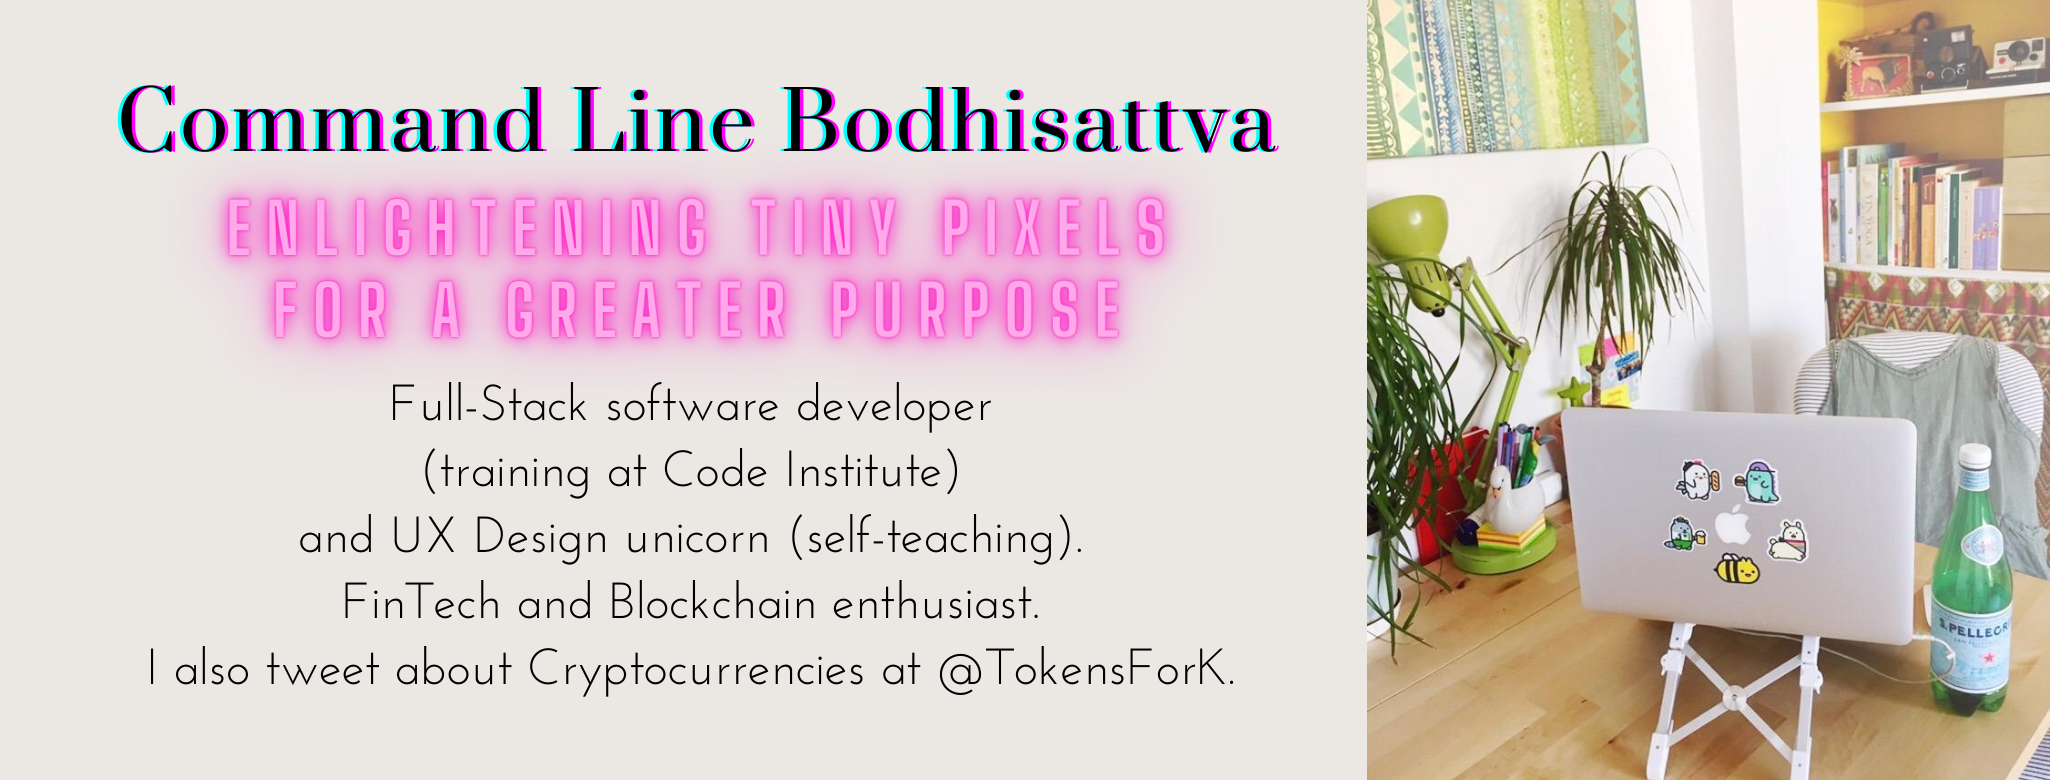
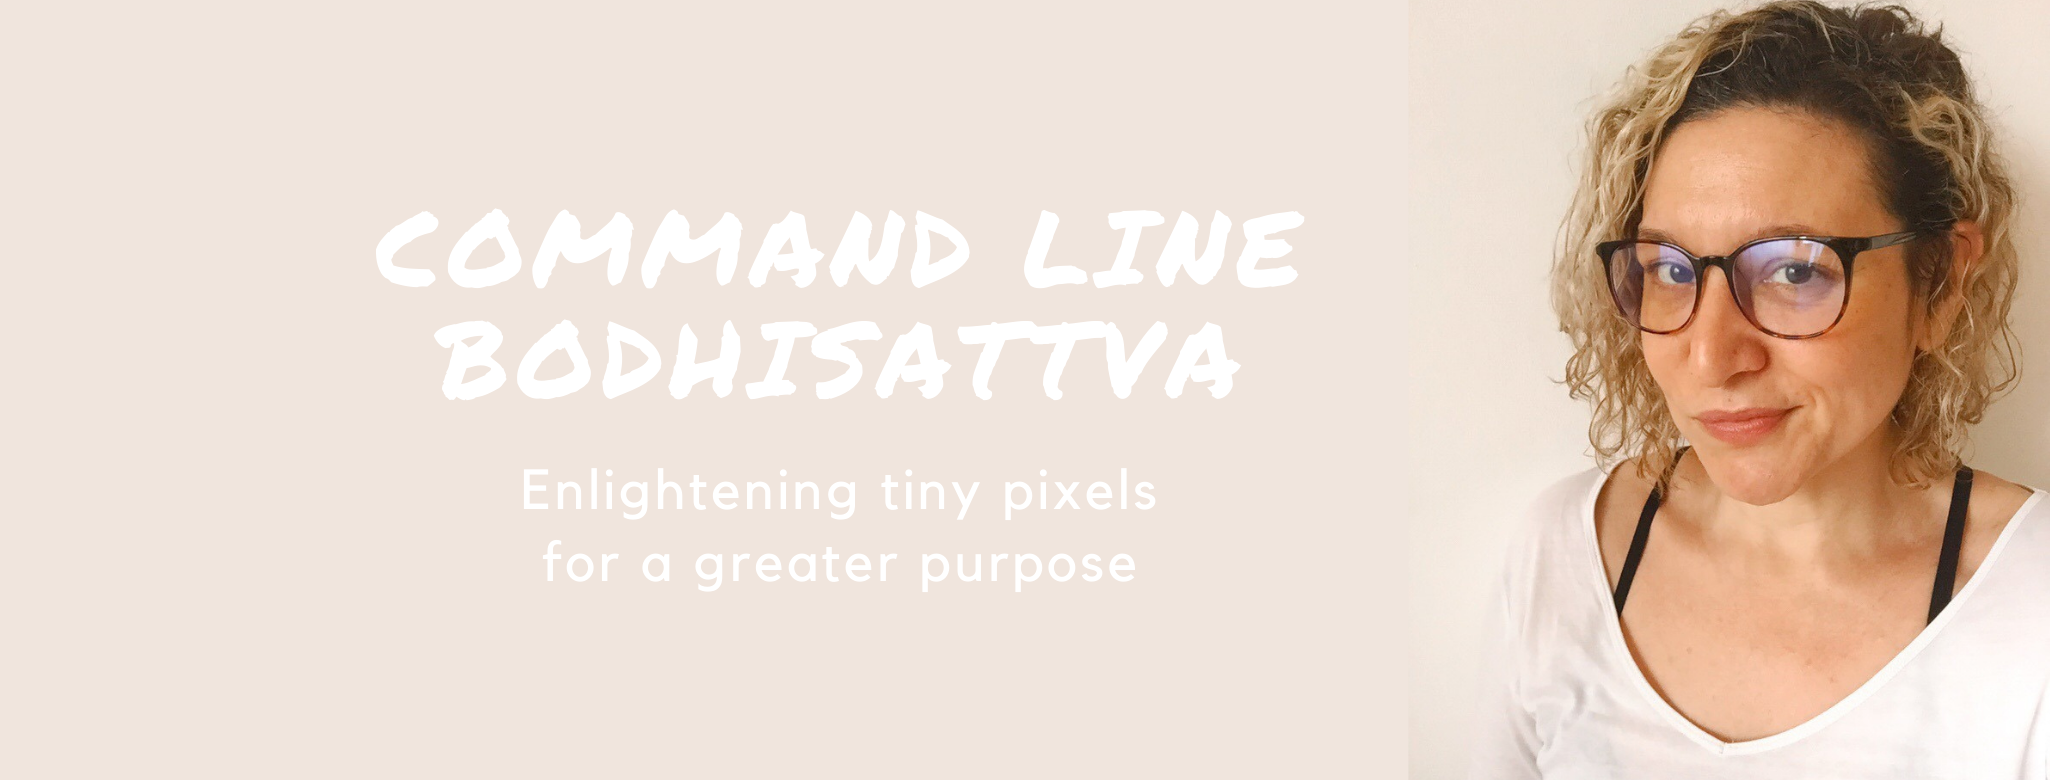
Update for january 2021

diff --git a/README.md b/README.md
@@ -1,14 +1,14 @@
 ## I am Kes Cardoso &nbsp; &nbsp; <a href="https://github.com/kescardoso" alt="GitHub" target="_blank"><img src="https://github.com/kescardoso/kescardoso/blob/master/icons/github-16.png"></a> &nbsp; <a href="mailto:kescardoso@gmail.com" alt="Email" target="_blank"><img src="https://github.com/kescardoso/kescardoso/blob/master/icons/email-16.png"></a> &nbsp; <a href="https://www.linkedin.com/in/kescardoso/" alt="Linkedin" target="_blank"><img src="https://github.com/kescardoso/kescardoso/blob/master/icons/linkedin-16.png"></a> &nbsp; <a href="https://twitter.com/kescardoso" alt="Twitter" target="_blank"><img src="https://github.com/kescardoso/kescardoso/blob/master/icons/twitter-16.png"></a> &nbsp; <a href="https://instagram.com/kescardoso" alt="Instagram" target="_blank"><img src="https://github.com/kescardoso/kescardoso/blob/master/icons/instagram-16.png"></a> &nbsp; <a href="https://pinterest.com/kescardoso" alt="Pinterest" target="_blank"><img src="https://github.com/kescardoso/kescardoso/blob/master/icons/pinterest-16.png"></a>
 
-<img src="https://github.com/kescardoso/kescardoso/blob/master/images/header.png" alt="Kesia Cardoso - Command Line Bottisatva: enlightening tiny pixels for a greater purpose - Full-Stack software develope (training at Code Institute) and UX Design unicorn (self-teaching). FinTech and Blockchain enthusiast. I also tweet about Cryptocurrencies at @TokensForK.">
+<img src="https://github.com/kescardoso/kescardoso/blob/master/images/header.png" alt="Kesia Cardoso - Command Line Bottisatva: enlightening tiny pixels for a greater purpose - Full-Stack software developer, FinTech and Blockchain enthusiast. Cryptocurrency Tweets at @kescardoso.">
 
-🔭 **I’m currently working on:** Finishing my diploma training and my final milestone project at Code Institute
+🔭 **I’m currently working on:** Self-teaching UX Design, and learning all I can about: Cryptocurrency investments and technologies, UFOs, and plant-based soup making
 
 👯 **I’m looking to collaborate on:** An awesome Fintech and/or Blockchain project, start-up or company
 
-🌱 **I’m currently learning:** How to tend for an appartment garden and how to invest in Cryptocurrency
+🌱 **I’m currently learning:** How to tend for an appartment garden and how to teach women about Cryptocurrency investments
 
-⚡ **Fun fact:** I'm Italian-Brazilian, from France, with a Canadian-English accent: I gave up placing where I'm from 🦄
+⚡ **Fun fact:** I'm Italian-Brazilian, from France, with a Canadian-English accent: I gave up placing where I come from 🦄
 
 <hr>     
 
@@ -67,7 +67,7 @@
 
 [ 2020 ]
 
-1.  <strong>StripeMe (Milestone #4):</strong> [Repo](https://github.com/kescardoso/stripeme), currently under development
+1.  <strong>StripeMe (Milestone #4):</strong> [Repo](https://github.com/kescardoso/stripeme)| [WebSite](https://kika-stripe-me.herokuapp.com/)
 2.  <strong>Boutique Ado:</strong> [Repo](https://github.com/kescardoso/boutique_ado) | [WebSite](https://kika-boutique-ado.herokuapp.com/)
 3.  <strong>The Cryptopedia (Milestone #3):</strong> [Repo](https://github.com/kescardoso/cryptopedia) | [WebSite](https://thecryptopedia.world/)
 
